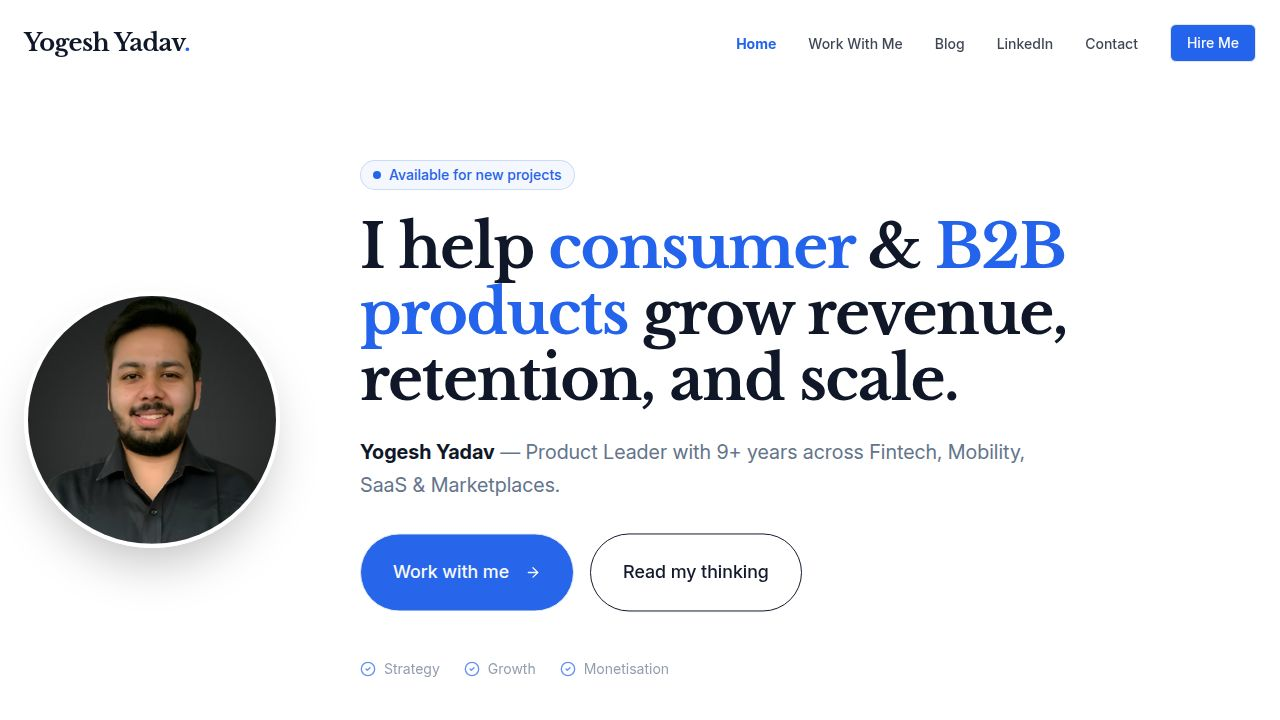
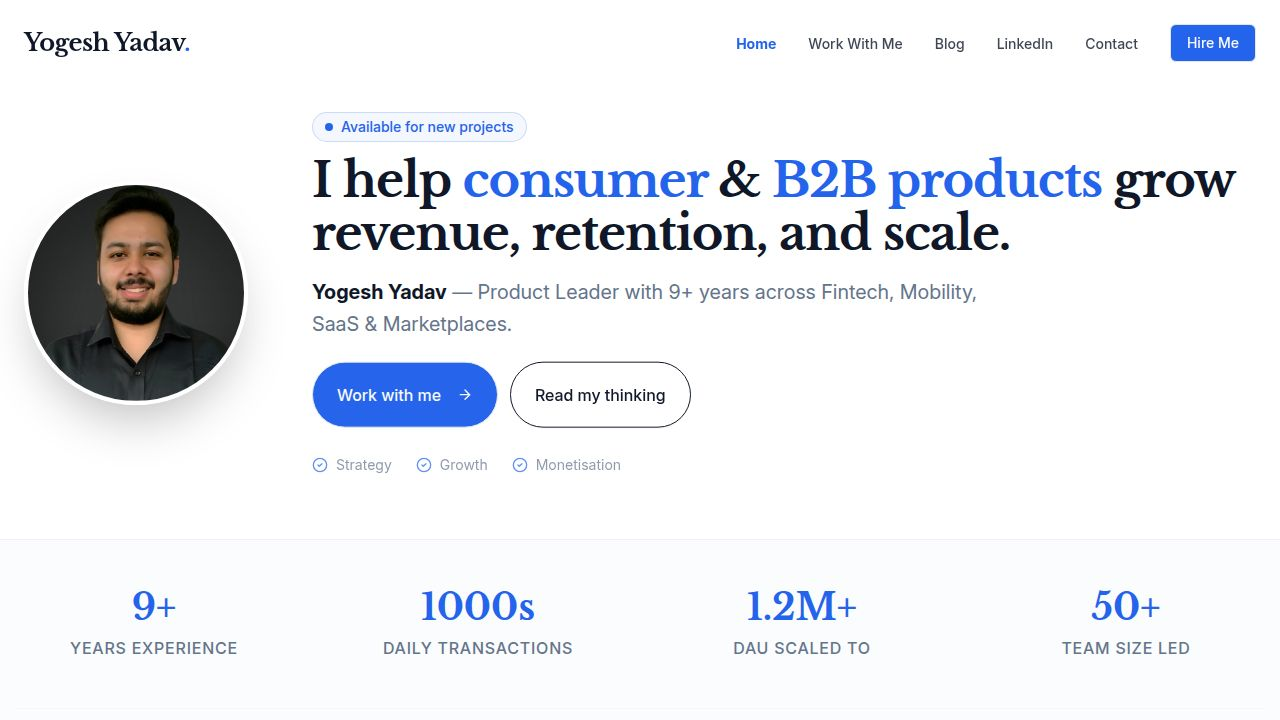
Adjust hero section layout and spacing for better visibility
Update Hero.tsx to reduce top padding, tighten element spacing, and adjust text sizes, ensuring both CTAs are visible above the fold and the "Available for new projects" badge is closer to the heading.

Replit-Commit-Author: Agent
Replit-Commit-Session-Id: 32b63e9c-22c1-4e74-8e86-30e9fd40b1b9
Replit-Commit-Checkpoint-Type: full_checkpoint
Replit-Commit-Event-Id: 25c60617-cdb8-456b-8e18-badff7bc00f1
Replit-Commit-Screenshot-Url: https://storage.googleapis.com/screenshot-production-us-central1/cc50101c-58f0-4648-a7b6-6ab22dd8ec46/32b63e9c-22c1-4e74-8e86-30e9fd40b1b9/w1xpgnc
Replit-Helium-Checkpoint-Created: true

diff --git a/client/src/components/sections/Hero.tsx b/client/src/components/sections/Hero.tsx
@@ -7,7 +7,7 @@ import { Link } from "wouter";
 
 export default function Hero() {
   return (
-    <section className="relative overflow-hidden bg-background pt-28 pb-16 md:pt-40 md:pb-24">
+    <section className="relative overflow-hidden bg-background pt-24 pb-12 md:pt-28 md:pb-16">
       {/* Abstract Background Elements */}
       <div className="absolute top-0 right-0 -z-10 w-full h-full opacity-10 md:opacity-20 pointer-events-none">
         <img 
@@ -18,38 +18,38 @@ export default function Hero() {
       </div>
 
       <div className="container px-4 md:px-6 mx-auto">
-        <div className="flex flex-col md:flex-row items-center gap-12 md:gap-20">
+        <div className="flex flex-col md:flex-row items-center gap-8 md:gap-16">
           
           <motion.div 
             initial={{ opacity: 0, scale: 0.9 }}
             animate={{ opacity: 1, scale: 1 }}
             transition={{ duration: 0.5 }}
-            className="w-48 h-48 md:w-64 md:h-64 shrink-0 rounded-full overflow-hidden border-4 border-white shadow-2xl relative z-10"
+            className="w-40 h-40 md:w-56 md:h-56 shrink-0 rounded-full overflow-hidden border-4 border-white shadow-2xl relative z-10"
           >
             <img 
               src={profileImage} 
               alt="Yogesh Yadav" 
-              width="256"
-              height="256"
+              width="224"
+              height="224"
               className="w-full h-full object-cover"
               fetchPriority="high"
             />
           </motion.div>
 
-          <div className="flex-1 space-y-8 text-center md:text-left">
+          <div className="flex-1 space-y-5 text-center md:text-left">
             <motion.div
               initial={{ opacity: 0, y: 20 }}
               animate={{ opacity: 1, y: 0 }}
               transition={{ duration: 0.5, delay: 0.1 }}
             >
-              <div className="inline-flex items-center rounded-full border border-primary/20 bg-primary/5 px-3 py-1 text-sm font-medium text-primary mb-6">
+              <div className="inline-flex items-center rounded-full border border-primary/20 bg-primary/5 px-3 py-1 text-sm font-medium text-primary mb-3">
                 <span className="flex h-2 w-2 rounded-full bg-primary mr-2"></span>
                 Available for new projects
               </div>
-              <h1 className="text-4xl md:text-6xl font-serif font-bold tracking-tight text-foreground leading-[1.1]">
+              <h1 className="text-3xl md:text-5xl font-serif font-bold tracking-tight text-foreground leading-[1.1]">
                 I help <span className="text-primary">consumer</span> & <span className="text-primary">B2B products</span> grow revenue, retention, and scale.
               </h1>
-              <p className="mt-6 text-xl text-muted-foreground max-w-2xl mx-auto md:mx-0 leading-relaxed">
+              <p className="mt-4 text-lg md:text-xl text-muted-foreground max-w-2xl mx-auto md:mx-0 leading-relaxed">
                 <strong className="text-foreground">Yogesh Yadav</strong> — Product Leader with 9+ years across Fintech, Mobility, SaaS & Marketplaces.
               </p>
             </motion.div>
@@ -58,12 +58,12 @@ export default function Hero() {
               initial={{ opacity: 0, y: 20 }}
               animate={{ opacity: 1, y: 0 }}
               transition={{ duration: 0.5, delay: 0.3 }}
-              className="flex flex-col sm:flex-row gap-4 justify-center md:justify-start"
+              className="flex flex-col sm:flex-row gap-3 justify-center md:justify-start"
             >
-              <Button size="lg" className="text-lg px-8 py-6 rounded-full" asChild>
+              <Button size="lg" className="text-base px-6 py-5 rounded-full" asChild>
                 <Link href="/contact">Work with me <ArrowRight className="ml-2 h-5 w-5" /></Link>
               </Button>
-              <Button variant="outline" size="lg" className="text-lg px-8 py-6 rounded-full" asChild>
+              <Button variant="outline" size="lg" className="text-base px-6 py-5 rounded-full" asChild>
                 <Link href="/blog">Read my thinking</Link>
               </Button>
             </motion.div>
@@ -72,7 +72,7 @@ export default function Hero() {
               initial={{ opacity: 0 }}
               animate={{ opacity: 1 }}
               transition={{ duration: 0.5, delay: 0.5 }}
-              className="pt-4 flex items-center justify-center md:justify-start gap-6 text-sm text-muted-foreground"
+              className="pt-2 flex items-center justify-center md:justify-start gap-6 text-sm text-muted-foreground"
             >
               <div className="flex items-center gap-2">
                 <CheckCircle2 className="h-4 w-4 text-primary" />
